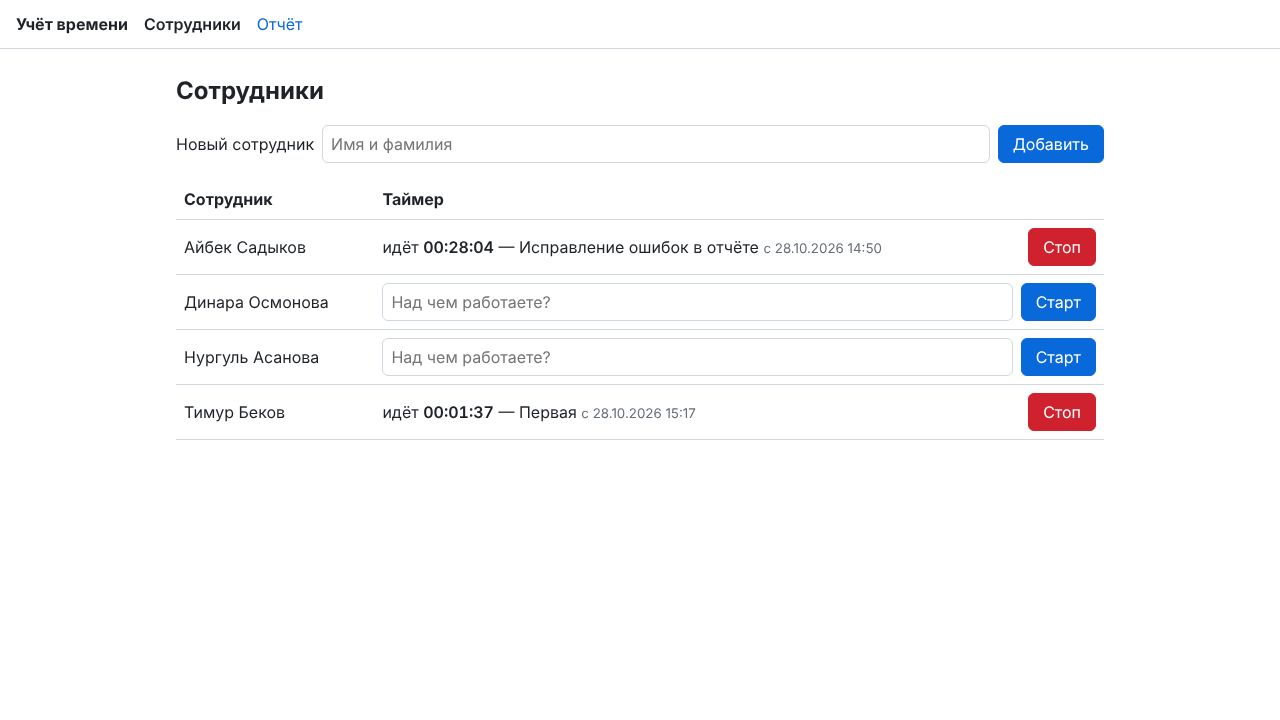
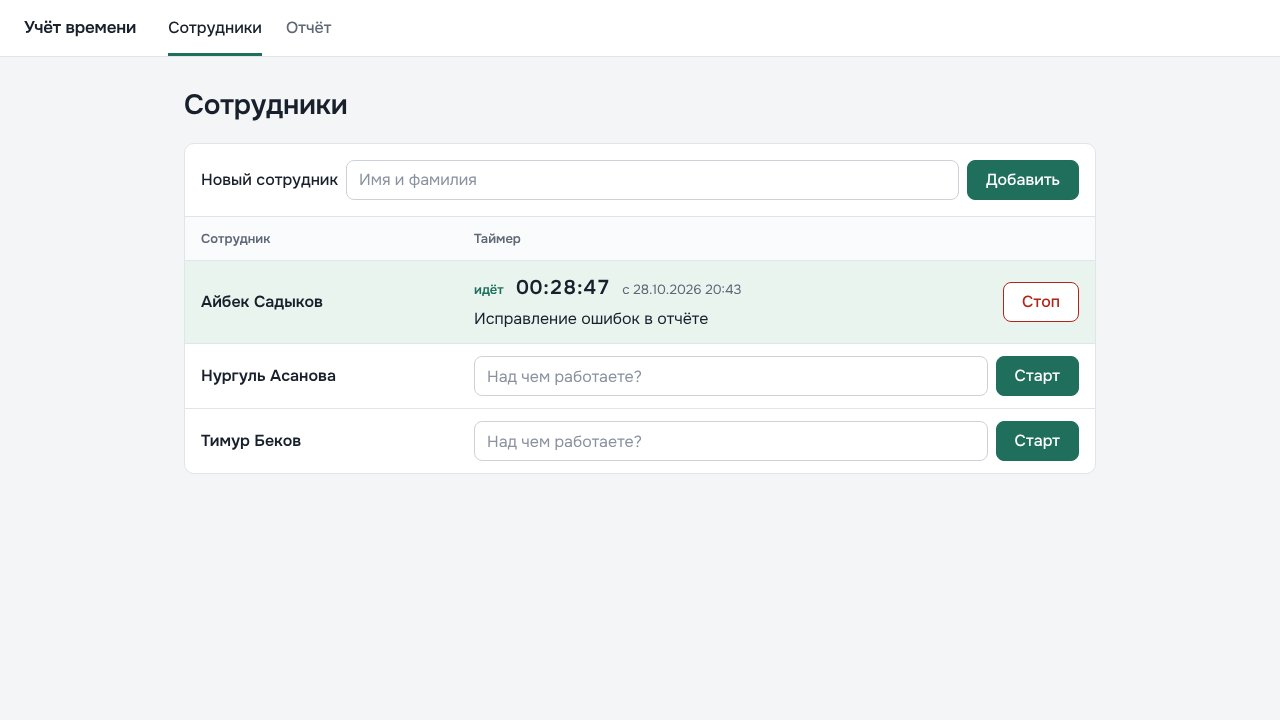
style(design): спокойная палитра, шрифт Onest, выделен идущий таймер, мобильная вёрстка
Ревью дизайна (/design-review): своя палитра вместо цветов Bootstrap, шрифт
Onest вместо system-ui, рабочая область — белая панель на сером фоне.
Строка с идущим таймером подсвечена, время крупнее; Стоп — контурная
кнопка. Навигация с подчёркиванием активного пункта. На телефоне строка
сотрудника — блок, кнопки 44 px. В отчёте нулевые итоги приглушены,
числовые колонки выровнены вправо. Новый скриншот в README.

Claude-Session: https://claude.ai/code/session_014xWpV7WXqUEHHJAcJ3T4cS

diff --git a/src/main/resources/static/style.css b/src/main/resources/static/style.css
@@ -1,41 +1,77 @@
 :root {
-	--text: #1f2328;
-	--muted: #656d76;
-	--line: #d0d7de;
-	--accent: #0969da;
-	--danger: #cf222e;
-	--ok-bg: #dafbe1;
-	--error-bg: #ffebe9;
+	--bg: #f4f5f7;
+	--surface: #fff;
+	--text: #18202c;
+	--muted: #5f6877;
+	--line: #e1e4e9;
+	--accent: #1f6f5c;
+	--accent-hover: #175747;
+	--accent-soft: #e9f4ef;
+	--danger: #b42318;
+	--danger-soft: #fdf0ee;
+	--radius: 10px;
 }
 
 * { box-sizing: border-box; }
 
 body {
 	margin: 0;
-	font: 16px/1.5 system-ui, -apple-system, "Segoe UI", Roboto, sans-serif;
+	/* Onest — гротеск с хорошей кириллицей (fragments.html); system-ui — пока шрифт грузится */
+	font: 16px/1.5 "Onest", system-ui, -apple-system, "Segoe UI", sans-serif;
 	color: var(--text);
-	background: #fff;
+	background: var(--bg);
 }
+::selection { background: var(--accent-soft); }
 
 nav {
 	display: flex;
-	gap: 16px;
+	gap: 24px;
 	align-items: center;
-	padding: 12px 16px;
+	padding: 0 24px;
+	background: var(--surface);
 	border-bottom: 1px solid var(--line);
 }
-nav a { color: var(--accent); text-decoration: none; }
-nav a.active { font-weight: 600; color: var(--text); }
+nav strong { font-size: 17px; letter-spacing: -0.01em; margin-right: 8px; }
+nav a {
+	padding: 16px 0 13px;
+	border-bottom: 3px solid transparent;
+	color: var(--muted);
+	text-decoration: none;
+	font-weight: 500;
+}
+nav a:hover { color: var(--text); }
+nav a.active { color: var(--text); border-bottom-color: var(--accent); }
 
-main { max-width: 960px; margin: 0 auto; padding: 16px; }
+main { max-width: 960px; margin: 0 auto; padding: 32px 24px 48px; }
 
-h1 { font-size: 24px; margin: 8px 0 16px; }
-h2 { font-size: 18px; margin: 24px 0 8px; }
+h1 { font-size: 28px; line-height: 1.2; letter-spacing: -0.01em; margin: 0 0 20px; }
+h2 { font-size: 18px; line-height: 1.25; margin: 32px 0 12px; }
+
+/* Рабочая область — одна белая панель на фоне страницы */
+.panel {
+	background: var(--surface);
+	border: 1px solid var(--line);
+	border-radius: var(--radius);
+	overflow: hidden;
+}
+.panel > form.inline { padding: 16px; border-bottom: 1px solid var(--line); }
 
 form.inline { display: flex; flex-wrap: wrap; gap: 8px; align-items: center; margin: 0; }
 main > form.inline { margin-bottom: 16px; }
+label { font-weight: 500; }
 
-input { font: inherit; padding: 6px 8px; border: 1px solid var(--line); border-radius: 6px; min-width: 0; }
+input {
+	font: inherit;
+	height: 40px;
+	padding: 0 12px;
+	color: inherit;
+	background: var(--surface);
+	border: 1px solid #cdd2d9;
+	border-radius: 8px;
+	min-width: 0;
+}
+input::placeholder { color: #8a92a0; }
+input:hover { border-color: #aeb5c0; }
 input[name="name"], input[name="description"] { flex: 1 1 140px; }
 /* Своя ширина поля (~20 символов) не даёт колонке таблицы сжаться на телефоне; flex всё равно
    растягивает поле на всю ячейку на широком экране */
@@ -43,28 +79,60 @@ input[name="description"] { width: 8em; }
 
 button {
 	font: inherit;
-	padding: 6px 14px;
+	font-weight: 500;
+	height: 40px;
+	padding: 0 18px;
 	border: 1px solid var(--accent);
-	border-radius: 6px;
+	border-radius: 8px;
 	background: var(--accent);
 	color: #fff;
 	cursor: pointer;
+	transition: background-color 120ms ease-out, color 120ms ease-out;
 }
-button.stop { background: var(--danger); border-color: var(--danger); }
-button:hover { filter: brightness(0.9); }
+button:hover { background: var(--accent-hover); border-color: var(--accent-hover); }
+/* Стоп — главное действие идущей строки, но не авария: контурная кнопка, заливка по наведению */
+button.stop { background: var(--surface); border-color: var(--danger); color: var(--danger); }
+button.stop:hover { background: var(--danger); color: #fff; }
 button:focus-visible, a:focus-visible, input:focus-visible { outline: 2px solid var(--accent); outline-offset: 2px; }
 
 table { width: 100%; border-collapse: collapse; }
-th, td { text-align: left; padding: 8px; border-bottom: 1px solid var(--line); vertical-align: middle; }
-td.num, th.num { text-align: right; white-space: nowrap; }
+th, td { text-align: left; padding: 12px 16px; border-bottom: 1px solid var(--line); vertical-align: middle; }
+th { font-size: 13px; font-weight: 600; color: var(--muted); background: #fafbfc; }
+tbody tr:last-child td, tfoot tr:last-child th { border-bottom: 0; }
+tfoot th { font-size: 16px; color: var(--text); background: var(--surface); border-top: 1px solid var(--line); }
+td.num, th.num { text-align: right; white-space: nowrap; font-variant-numeric: tabular-nums; }
+td.zero { color: var(--muted); }
 table.totals { max-width: 480px; }
+.panel.totals { max-width: 480px; }
 /* Широкая таблица записей на телефоне прокручивается сама, а не растягивает страницу */
 .table-wrap { overflow-x: auto; }
 
-.running { flex: 1 1 auto; }
-.elapsed { font-variant-numeric: tabular-nums; font-weight: 600; }
+/* Сотрудники: имя — первая колонка, таймер — вторая */
+.employees td:first-child { font-weight: 600; width: 30%; }
+.employees tr.is-running td { background: var(--accent-soft); }
+.running { flex: 1 1 auto; display: flex; flex-wrap: wrap; align-items: baseline; gap: 4px 12px; }
+.status { font-size: 13px; font-weight: 600; color: var(--accent); }
+.elapsed { font-variant-numeric: tabular-nums; font-size: 20px; font-weight: 600; letter-spacing: 0.01em; }
+.task { flex-basis: 100%; }
 small, .hint, .empty { color: var(--muted); }
+.hint { font-size: 14px; margin: 12px 0 0; }
+.empty { padding: 16px; margin: 0; }
 
-.flash { padding: 8px 12px; border-radius: 6px; }
-.flash.error { background: var(--error-bg); }
-.flash.ok { background: var(--ok-bg); }
+.flash { padding: 10px 14px; border-radius: 8px; margin: 0 0 16px; border: 1px solid; }
+.flash.error { background: var(--danger-soft); border-color: #f4c7c1; color: #7a1a12; }
+.flash.ok { background: var(--accent-soft); border-color: #c4e3d6; color: #13473b; }
+
+/* Телефон: строка сотрудника — блок, имя сверху, таймер под ним; кнопки не меньше 44 px */
+@media (max-width: 600px) {
+	nav { gap: 16px; padding: 0 16px; }
+	main { padding: 24px 16px 40px; }
+	h1 { font-size: 24px; }
+	input, button { height: 44px; }
+	.employees thead { display: none; }
+	.employees tr { display: block; border-bottom: 1px solid var(--line); }
+	.employees tr:last-child { border-bottom: 0; }
+	.employees td, .employees td:first-child { display: block; width: auto; border: 0; padding: 12px 16px 0; }
+	.panel > form.inline label { flex-basis: 100%; }
+	.employees td + td { padding: 8px 16px 14px; }
+	.employees tr.is-running { background: var(--accent-soft); }
+}

diff --git a/src/main/resources/templates/report.html b/src/main/resources/templates/report.html
@@ -19,28 +19,30 @@
 
 	<th:block th:if="${report != null}">
 		<h2>Итого по сотрудникам</h2>
-		<p class="empty" th:if="${report.totals.isEmpty()}">Сотрудников пока нет.</p>
-		<table th:unless="${report.totals.isEmpty()}" class="totals">
+		<p class="empty panel" th:if="${report.totals.isEmpty()}">Сотрудников пока нет.</p>
+		<div class="panel totals" th:unless="${report.totals.isEmpty()}">
+		<table>
 			<thead>
-			<tr><th>Сотрудник</th><th>Время</th></tr>
+			<tr><th>Сотрудник</th><th class="num">Время</th></tr>
 			</thead>
 			<tbody>
 			<tr th:each="t : ${report.totals}">
 				<td th:text="${t.name}">Айбек Садыков</td>
-				<td class="num" th:text="${T(kg.timetracker.Formats).duration(t.duration)}">7 ч 05 мин</td>
+				<td class="num" th:classappend="${t.duration.isZero()} ? 'zero'" th:text="${T(kg.timetracker.Formats).duration(t.duration)}">7 ч 05 мин</td>
 			</tr>
 			</tbody>
 			<tfoot>
 			<tr><th>Всего</th><th class="num" th:text="${T(kg.timetracker.Formats).duration(report.total)}">0 ч 00 мин</th></tr>
 			</tfoot>
 		</table>
+		</div>
 
 		<h2>Записи</h2>
-		<p class="empty" th:if="${report.rows.isEmpty()}">За этот период записей нет.</p>
-		<div class="table-wrap" th:unless="${report.rows.isEmpty()}">
+		<p class="empty panel" th:if="${report.rows.isEmpty()}">За этот период записей нет.</p>
+		<div class="panel table-wrap" th:unless="${report.rows.isEmpty()}">
 		<table>
 			<thead>
-			<tr><th>Сотрудник</th><th>Задача</th><th>Начало</th><th>Конец</th><th>В периоде</th></tr>
+			<tr><th>Сотрудник</th><th>Задача</th><th>Начало</th><th>Конец</th><th class="num">В периоде</th></tr>
 			</thead>
 			<tbody>
 			<tr th:each="r : ${report.rows}">

diff --git a/src/main/resources/templates/index.html b/src/main/resources/templates/index.html
@@ -7,6 +7,7 @@
 	<h1>Сотрудники</h1>
 	<div th:replace="~{fragments :: messages}"></div>
 
+	<div class="panel">
 	<form class="inline" method="post" th:action="@{/employees}">
 		<label for="name">Новый сотрудник</label>
 		<input id="name" name="name" maxlength="100" required placeholder="Имя и фамилия" th:value="${name}">
@@ -15,19 +16,20 @@
 
 	<p class="empty" th:if="${rows.isEmpty()}">Сотрудников пока нет — добавьте первого.</p>
 
-	<table th:unless="${rows.isEmpty()}">
+	<table class="employees" th:unless="${rows.isEmpty()}">
 		<thead>
 		<tr><th>Сотрудник</th><th>Таймер</th></tr>
 		</thead>
 		<tbody>
-		<tr th:each="row : ${rows}">
+		<tr th:each="row : ${rows}" th:classappend="${row.task != null} ? 'is-running'">
 			<td th:text="${row.name}">Айбек Садыков</td>
 			<td th:if="${row.task != null}">
 				<form class="inline" method="post" th:action="@{/employees/{id}/stop(id=${row.id})}">
 					<span class="running">
-						идёт <time class="elapsed" th:attr="data-elapsed=${row.elapsedSeconds}">00:00:00</time>
-						— <span th:text="${row.task}">Вёрстка отчёта</span>
+						<span class="status">идёт</span>
+						<time class="elapsed" th:attr="data-elapsed=${row.elapsedSeconds}">00:00:00</time>
 						<small th:text="'с ' + ${row.since}">с 28.10.2026 10:15</small>
+						<span class="task" th:text="${row.task}">Вёрстка отчёта</span>
 					</span>
 					<button type="submit" class="stop" th:aria-label="'Остановить таймер: ' + ${row.name}">Стоп</button>
 				</form>
@@ -43,6 +45,7 @@
 		</tr>
 		</tbody>
 	</table>
+	</div>
 </main>
 <script th:src="@{/timer.js}"></script>
 </body>

diff --git a/src/main/resources/templates/fragments.html b/src/main/resources/templates/fragments.html
@@ -6,6 +6,9 @@
 	<title th:text="${title} + ' — Учёт времени'">Учёт времени</title>
 	<!--/* Иконки нет: пустая ссылка, чтобы браузер не запрашивал /favicon.ico и не писал 404 в консоль */-->
 	<link rel="icon" href="data:,">
+	<link rel="preconnect" href="https://fonts.googleapis.com">
+	<link rel="preconnect" href="https://fonts.gstatic.com" crossorigin>
+	<link rel="stylesheet" href="https://fonts.googleapis.com/css2?family=Onest:wght@400;500;600&amp;display=swap">
 	<link rel="stylesheet" th:href="@{/style.css}">
 </head>
 <body>
